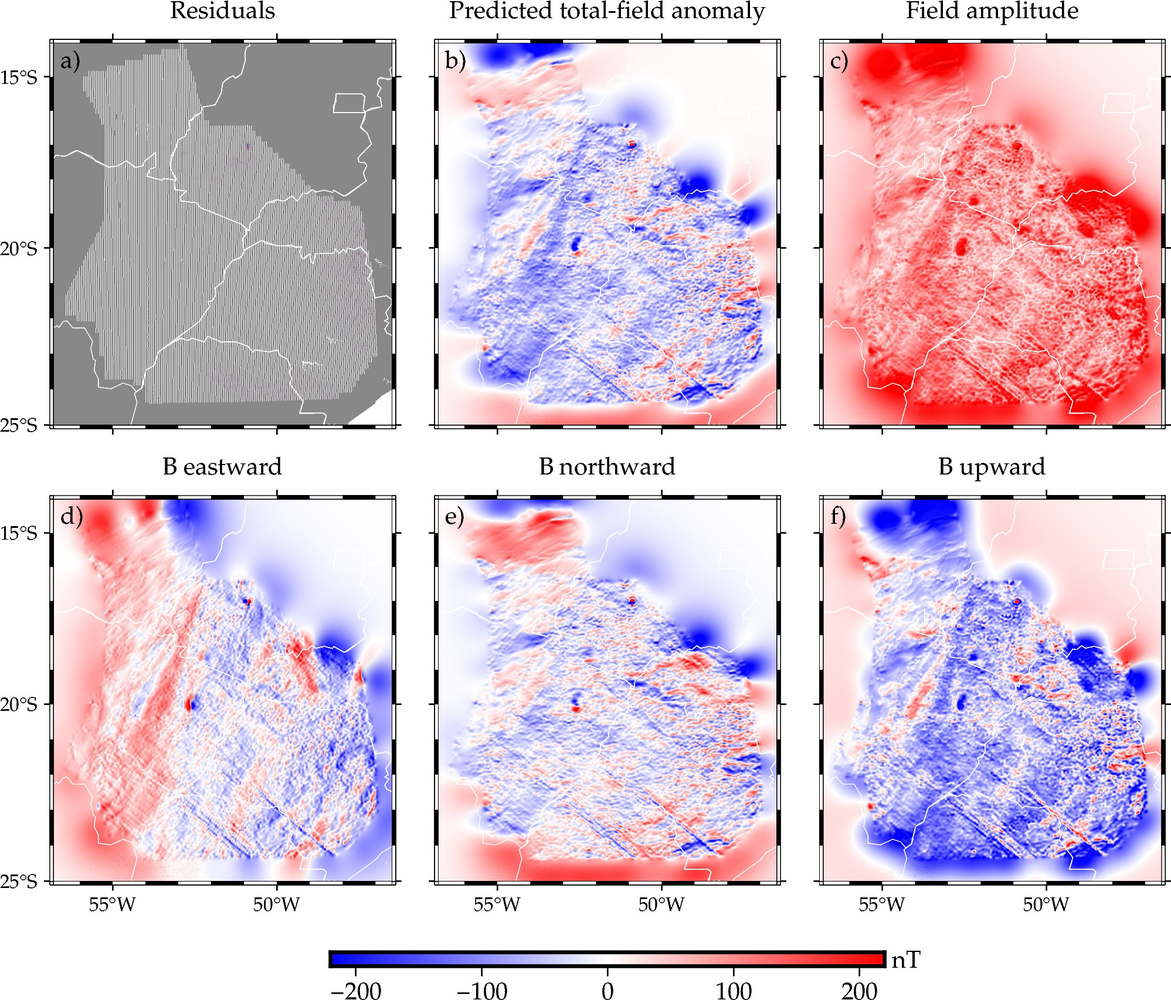
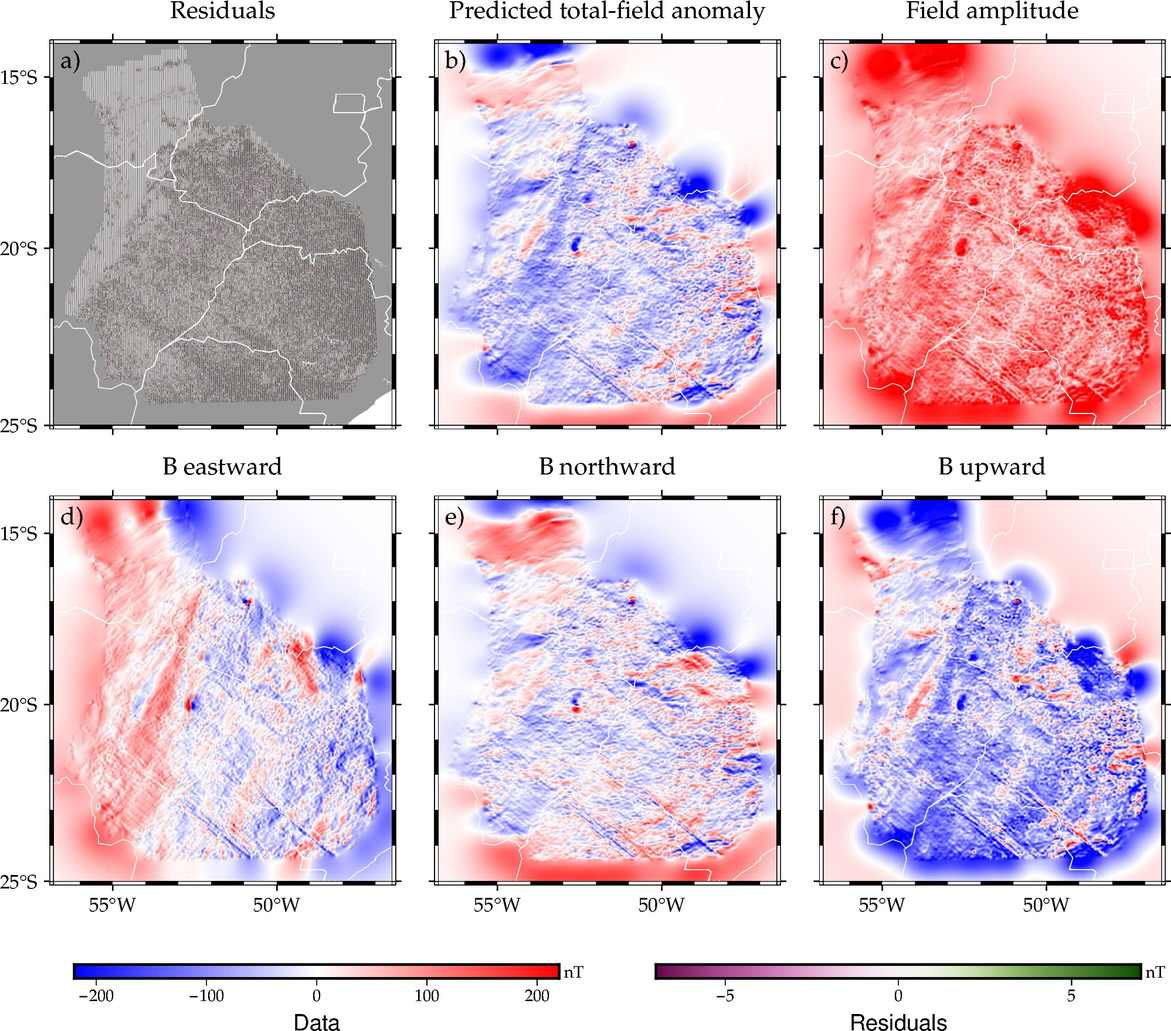
Add the new figure with the residuals with another collor

diff --git a/paper/content.tex b/paper/content.tex
@@ -10,7 +10,7 @@ The method approximates observed anomalies using a layer of fictitious sources.
 Once the physical properties of these sources are estimated, they can be used
 to compute derived quantities at any location, such as data continuation
 \citep{Emilia1973, ZhiWen2022, Li2023}, gridding and interpolation
-\citep{Mendonca1994, Mendonca1995, Dampney1969, Li2006, Cordell1992}, and
+\citep{Mendonca1994, Mendonca1995, Dampney1969, Li2006, Cordell1992, Ebbing2021}, and
 reduction to the pole \citep{Guspi2009, Li2001, Silva1986}.
 
 Although effective, the practical application of the equivalent sources
@@ -109,7 +109,7 @@ inversion from being dominated by the shallow layer.
 A recent refinement by \citet{Uppal2025} overcomes these issues by fitting the
 layers sequentially: the deep layer is fitted first to a block-averaged,
 long-wavelength version of the data, and the shallow layer is then fitted to
-the high-frequency residuals.Expanding on this sequential strategy,
+the high-frequency residuals. Expanding on this sequential strategy,
 \citet{Heincke2026} successfully utilized three equivalent source layers that
 are subsequently fitted to model large-scale magnetic anomalies.
 
@@ -671,8 +671,8 @@ The hyperparameters of the deep layer were selected through a block K-fold
 cross-validation procedure applied to the block-reduced dataset. The tested
 parameter space comprised five relative depths ranging from approximately
 90~km to 270~km and five damping values varying from $10^{2}$ to $10^{6}$,
-resulting in 25 parameter combinations. Spatial blocks of 1$^{\circ}$ (approximately
-111~km) were used to avoid the spatial dependence between samples
+resulting in 25 parameter combinations. Spatial blocks of 1$^{\circ}$ 
+(approximately 111~km) were used to avoid the spatial dependence between samples
 in the training and testing sets during the cross-validation process.
 The cross-validation results are shown in
 Figure~\ref{fig_crossvalidation}a. The minimum RMSE was obtained for a relative
